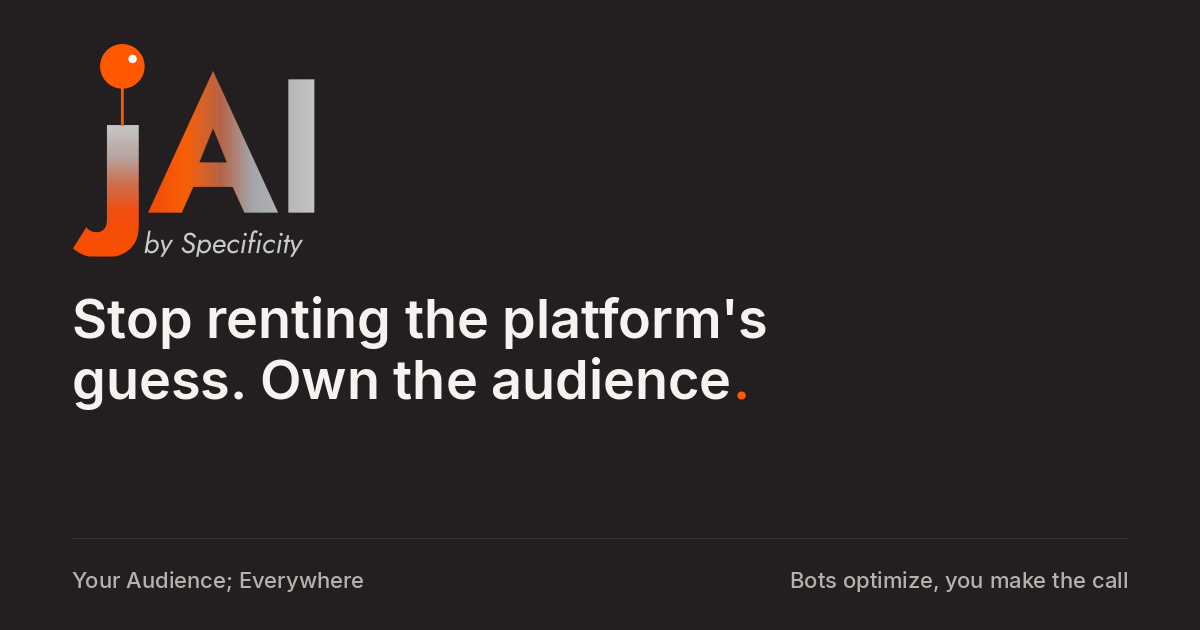
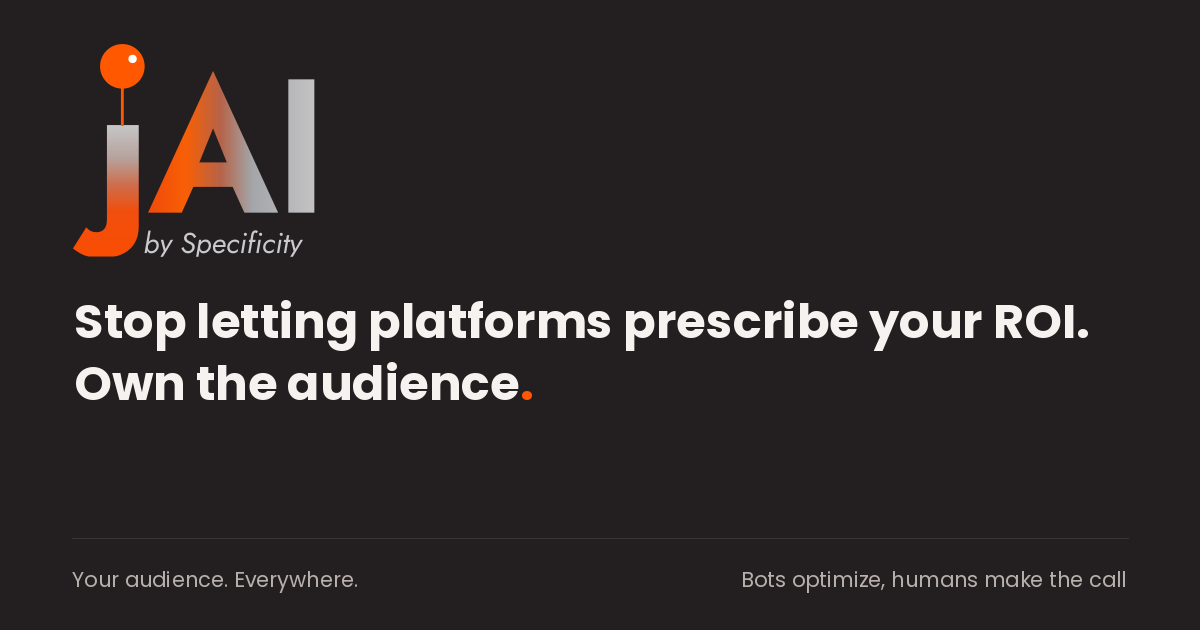
Update the link preview image and its alt text. (#92)
The preview now uses the live homepage headline and the current footer lines, and the image URL is versioned so chats fetch the new file.

Changed region(s): [[0.0617, 0.4524, 0.925, 0.6635], [0.6167, 0.9048, 0.9558, 0.9349], [0.0617, 0.9048, 0.3083, 0.9349]]

diff --git a/lib/public-homepage.test.ts b/lib/public-homepage.test.ts
@@ -9,7 +9,7 @@ import { acceptHomepageContact, saveHomepageContact } from "./homepage-contact";
 import { feedShouldAdvance } from "./homepage-feed";
 import { BOOK_DEMO_LABEL, TRY_DEMO_LABEL } from "./homepage-cta";
 import { BRAND_WORDMARK, PRODUCT_TAGLINE } from "./brand";
-import { PUBLIC_AD_LINE, PUBLIC_DESCRIPTION, PUBLIC_SITE_ORIGIN, PUBLIC_TAGLINE, publicLogos } from "./brand/public";
+import { PUBLIC_AD_LINE, PUBLIC_DESCRIPTION, PUBLIC_LOGO_ALT, PUBLIC_SITE_ORIGIN, PUBLIC_TAGLINE, publicLogos } from "./brand/public";
 import { EXEC_SUMMARY_BAND, EXEC_SUMMARY_HREF, HOMEPAGE_SECTION_ORDER, HOMEPAGE_SIGNOFF_TODO, SHOW_DEMO_TOUR, SHOW_LOGOS, SHOW_PROOF, SHOW_TODO_FAQS, homepageJsonLd, homepageMetadata, homepageModel, homepageProse, visibleFaqs } from "./homepage-content";
 import { quizRead } from "./homepage-quiz";
 import { loginHeading } from "./login-copy";
@@ -497,7 +497,11 @@ test("homepage sections stay in order with signed-off gaps and no invented stats
   assert.equal(meta.openGraph.title, meta.title.absolute);
   assert.equal(meta.openGraph.url, `${PUBLIC_SITE_ORIGIN}/`);
   assert.equal(meta.alternates.canonical, `${PUBLIC_SITE_ORIGIN}/`);
-  assert.equal(meta.openGraph.images[0].url, `${PUBLIC_SITE_ORIGIN}/brand/jai-og.png`);
+  assert.equal(meta.openGraph.images[0].url, `${PUBLIC_SITE_ORIGIN}/brand/jai-og.png?v=2`);
+  assert.equal(meta.openGraph.images[0].alt, `${PUBLIC_LOGO_ALT}. ${PUBLIC_TAGLINE} ${PUBLIC_AD_LINE}`);
+  assert.equal(meta.openGraph.images[0].alt, "jAI by Specificity. Your audience. Everywhere. Bots optimize, humans make the call");
+  assert.equal(meta.openGraph.images[0].alt.includes(".."), false);
+  assert.equal(meta.twitter.images[0], meta.openGraph.images[0].url);
   assert.equal(JSON.stringify(meta).includes("diverai.specificityinc.com"), false);
   const linked = homepageJsonLd();
   assert.equal(linked["@graph"][0]["@type"], "Organization");

diff --git a/lib/homepage-content.ts b/lib/homepage-content.ts
@@ -668,7 +668,7 @@ export function homepageMetadata() {
       type: "website" as const,
       siteName: PRODUCT_WORDMARK,
       url: `${PUBLIC_SITE_ORIGIN}/`,
-      images: [{ url: image, width: 1200, height: 630, alt: `${PUBLIC_LOGO_ALT}. ${PUBLIC_TAGLINE}. ${PUBLIC_AD_LINE}` }],
+      images: [{ url: image, width: 1200, height: 630, alt: `${PUBLIC_LOGO_ALT}. ${PUBLIC_TAGLINE} ${PUBLIC_AD_LINE}` }],
     },
     twitter: { card: "summary_large_image" as const, title, description, images: [image] },
     robots: { index: true, follow: true },

diff --git a/lib/brand/public.ts b/lib/brand/public.ts
@@ -21,7 +21,7 @@ export const publicLogos = {
   rasterLight: "/brand/jai-logo-final-light.png",
   favicon32: "/brand/jai-favicon-32.png",
   favicon192: "/brand/jai-favicon-192.png",
-  og: "/brand/jai-og.png",
+  og: "/brand/jai-og.png?v=2",
 } as const;
 
 /** viewBox sizes from the final SVGs. Lockup includes "by Specificity". */

diff --git a/scripts/generate-jai-og.py b/scripts/generate-jai-og.py
@@ -1,0 +1,87 @@
+"""Rebuild public/brand/jai-og.png from the homepage hero title and public lines.
+
+Keeps the existing jAI lockup pixels. Rewrites the headline and footer.
+Requires Poppins Bold and Regular (google/fonts ofl/poppins) at /tmp/fonts
+or next to this script is not assumed; pass --font-dir.
+"""
+
+import re
+import sys
+from pathlib import Path
+
+from PIL import Image, ImageDraw, ImageFont
+
+ROOT = Path(__file__).resolve().parents[1]
+SRC = ROOT / "public/brand/jai-og.png"
+HERO = ROOT / "lib/homepage-content.ts"
+BRAND = ROOT / "lib/brand/public.ts"
+FONT_DIR = Path(sys.argv[1] if len(sys.argv) > 1 else "/tmp/fonts")
+
+BG = (35, 31, 32)
+PAPER = (245, 242, 240)
+ORANGE = (255, 88, 0)
+MUTE = (184, 176, 173)
+LINE = (58, 52, 53)
+
+
+def quoted(path: Path, name: str) -> str:
+    text = path.read_text()
+    match = re.search(rf"export const {name} = \"([^\"]+)\"", text)
+    if not match:
+        raise SystemExit(f"missing {name} in {path}")
+    return match.group(1)
+
+
+def hero_title() -> str:
+    text = HERO.read_text()
+    match = re.search(r"hero:\s*\{\s*title:\s*\"([^\"]+)\"", text)
+    if not match:
+        raise SystemExit("missing homepage hero title")
+    return match.group(1)
+
+
+def main() -> None:
+    title = hero_title()
+    tagline = quoted(BRAND, "PUBLIC_TAGLINE")
+    ad_line = quoted(BRAND, "PUBLIC_AD_LINE")
+    bold = ImageFont.truetype(str(FONT_DIR / "Poppins-Bold.ttf"), 48)
+    regular = ImageFont.truetype(str(FONT_DIR / "Poppins-Regular.ttf"), 21)
+
+    image = Image.open(SRC).convert("RGB")
+    if image.size != (1200, 630):
+        raise SystemExit(f"unexpected size {image.size}")
+    draw = ImageDraw.Draw(image)
+    draw.rectangle((0, 270, 1200, 630), fill=BG)
+    draw.line((72, 538, 1128, 538), fill=LINE)
+
+    line_one = "Stop letting platforms prescribe your ROI."
+    line_two = "Own the audience"
+    if title != f"{line_one} {line_two}":
+        raise SystemExit(f"hero title changed, update the wrap in this script: {title}")
+
+    def baseline_for_top(font: ImageFont.FreeTypeFont, text: str, top: int) -> int:
+        box = draw.textbbox((0, 0), text, font=font, anchor="ls")
+        return top - box[1]
+
+    def paint(text: str, xy: tuple[int, int], font: ImageFont.FreeTypeFont, fill: tuple[int, int, int]) -> int:
+        draw.text(xy, text, font=font, fill=fill, anchor="ls")
+        box = draw.textbbox(xy, text, font=font, anchor="ls")
+        return box[2]
+
+    first_base = baseline_for_top(bold, line_one, 300)
+    second_base = baseline_for_top(bold, line_two, 362)
+    paint(line_one, (74, first_base), bold, PAPER)
+    end = paint(line_two, (74, second_base), bold, PAPER)
+    paint(".", (end, second_base), bold, ORANGE)
+
+    footer_base = baseline_for_top(regular, tagline, 571)
+    paint(tagline, (72, footer_base), regular, MUTE)
+    right_box = draw.textbbox((0, 0), ad_line, font=regular, anchor="ls")
+    paint(ad_line, (1126 - right_box[2], footer_base), regular, MUTE)
+
+    image.save(SRC, format="PNG", optimize=True)
+    print(f"wrote {SRC} headline={title}.")
+
+
+if __name__ == "__main__":
+    main()
